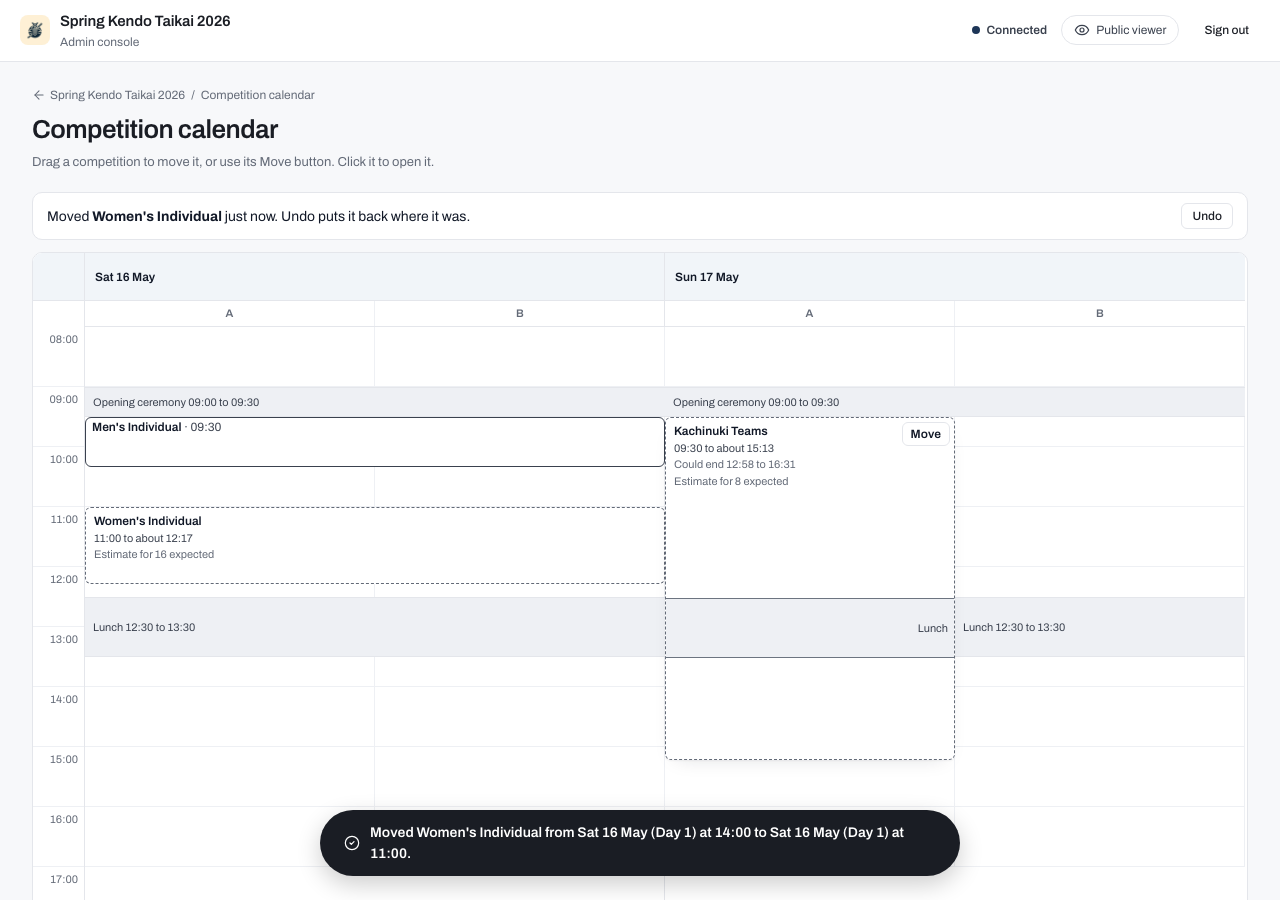
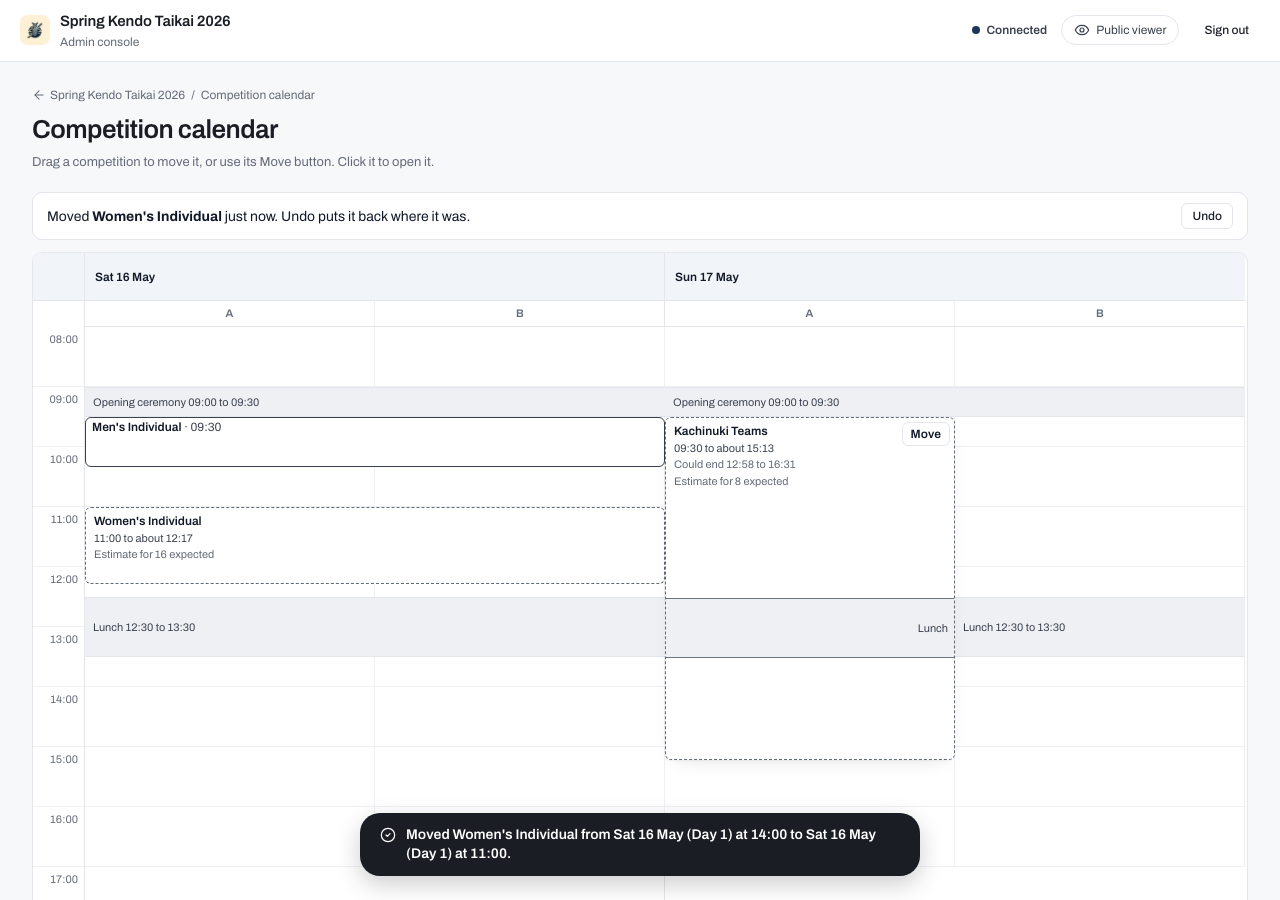
docs(bc-drpb): recapture the calendar move toast, state the plain discard confirm
The calendar move screenshot shows the multi-line toast main now draws.
The Discard draw bullet says what the hidden-draw confirm asks rather
than that it asks as before.

Changed region(s): [[0.25, 0.9022, 0.75, 0.9956]]

diff --git a/docs/user-guide/organisers/run-tournament.md b/docs/user-guide/organisers/run-tournament.md
@@ -277,7 +277,7 @@ The dashboard card of a draw-ready competition shows the same thing at a glance:
 - **Publish draw** shows the draw on the public pages at once, without waiting for the start. It asks nothing first. Once published, the button reads **Unpublish**.
 - **Unpublish** hides the draw again, for example when you published it by mistake or spotted an error after publishing. The app says "Hidden again. Anyone who looked still has what they saw.": a spectator who already read the draw, took a screenshot or printed it keeps that copy, so tell people when a published draw changes.
 - **Start competition** makes the draw public whether or not you published it. On a hidden draw it asks first: "The draw for "<name>" is still hidden from the public. Starting the competition makes it public at once." Choose **Start competition** to go ahead, or **Cancel**. **Start** on the dashboard card asks the same, and **Start all** starts every competition in setup and every competition whose draw is already made, and lists the hidden draws it would make public before you confirm.
-- **Discard draw** on a published draw warns you that the public has already seen it, and that the new draw you generate starts hidden again. On a hidden draw it asks as it always has.
+- **Discard draw** on a published draw warns you that the public has already seen it, and that the new draw you generate starts hidden again. On a hidden draw it asks only whether to remove the pools and bracket so you can edit participants and settings.
 
 Scoring a match of a draw-ready competition starts it, so that also makes its draw public. A court operator who taps **Call to court** for a match of a hidden draw is asked first: "The draw for <competition> is still hidden from the public. Calling this match shows its competitors on the public screens." **Call anyway** makes the call, and **Cancel** (or Escape) leaves the match uncalled. Publish the draw first if you do not want the call to be the first thing spectators see.
 
